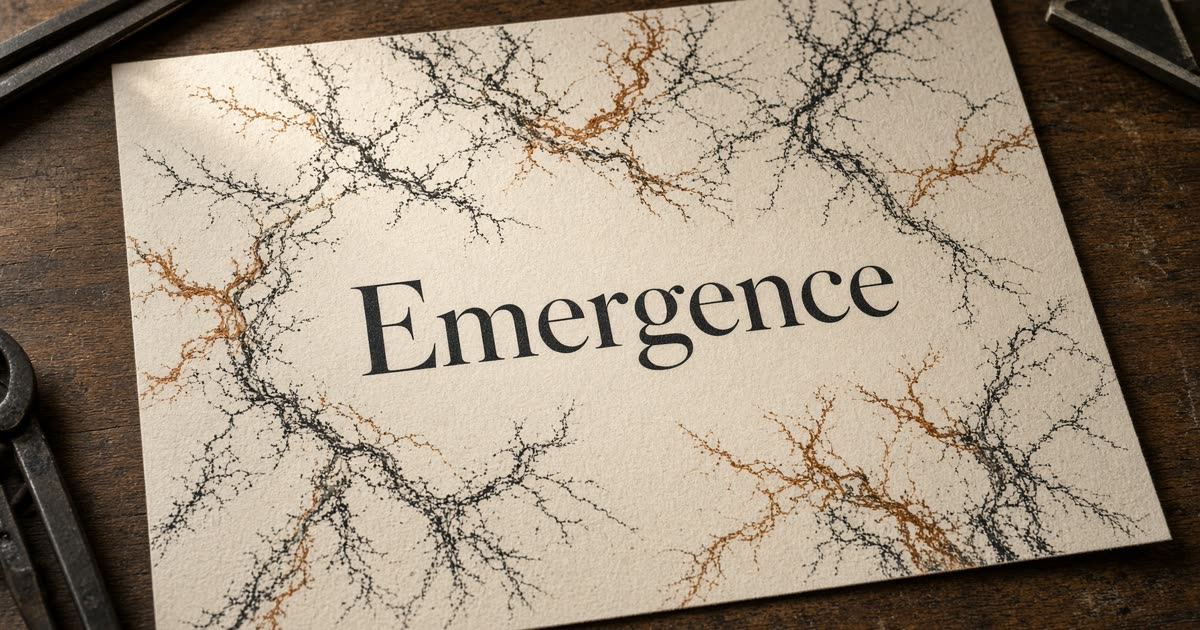
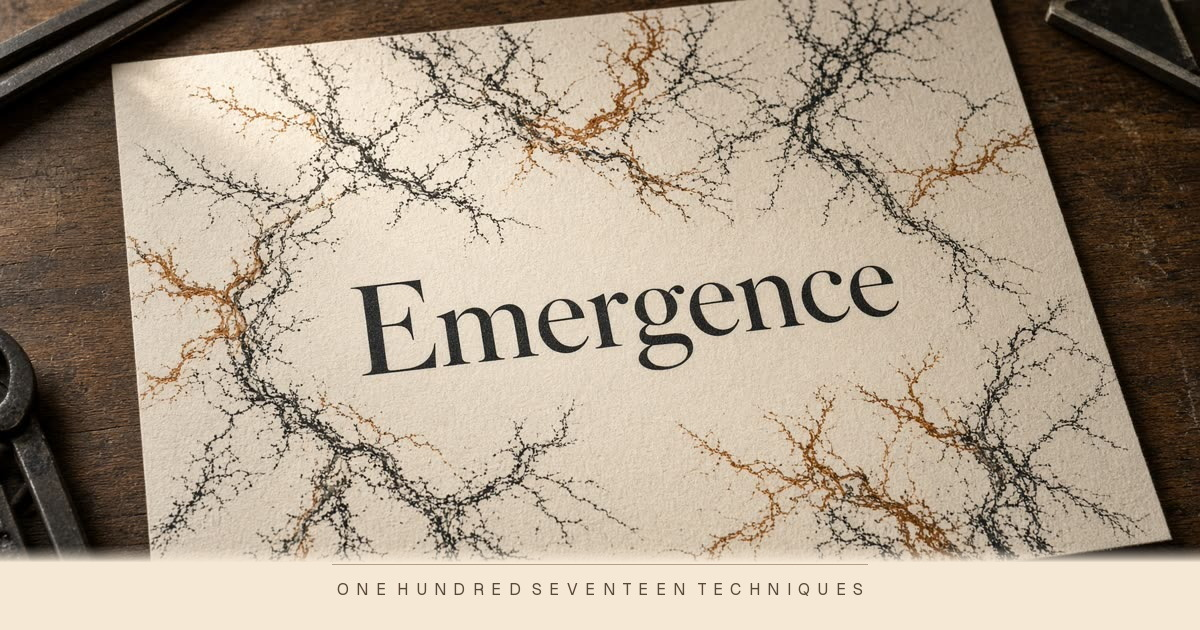
The social card says one hundred seventeen.
og.jpg still read sixty-six. The caption is the live catalog now, and lint fails when the JPEG comment does not match the file.

Changed region(s): [[0.0, 0.8444, 1.0, 1.0]]

diff --git a/tools/lint.js b/tools/lint.js
@@ -168,6 +168,7 @@ const designPlan = fs.existsSync(path.join(root, 'DESIGN-PLAN.md')) ? fs.readFil
 const llmsTxt = fs.existsSync(path.join(root, 'llms.txt')) ? fs.readFileSync(path.join(root, 'llms.txt'), 'utf8') : '';
 const agentsMd = fs.existsSync(path.join(root, 'AGENTS.md')) ? fs.readFileSync(path.join(root, 'AGENTS.md'), 'utf8') : '';
 const researchMd = fs.existsSync(path.join(root, 'RESEARCH.md')) ? fs.readFileSync(path.join(root, 'RESEARCH.md'), 'utf8') : '';
+const contributingMd = fs.existsSync(path.join(root, 'CONTRIBUTING.md')) ? fs.readFileSync(path.join(root, 'CONTRIBUTING.md'), 'utf8') : '';
 if (!researchMd) fail('RESEARCH.md is missing');
 for (const [label, text] of [
   ['studio.html', src],
@@ -178,6 +179,7 @@ for (const [label, text] of [
   ['llms.txt', llmsTxt],
   ['AGENTS.md', agentsMd],
   ['RESEARCH.md', researchMd],
+  ['CONTRIBUTING.md', contributingMd],
 ]) {
   if (!text) continue;
   // Only a spelled number that is actually counting techniques. Matching the word on its own
@@ -192,6 +194,32 @@ for (const [label, text] of [
   const digits = [...text.matchAll(/\b(\d{2,3})\s+(?:pattern-forming systems|sciences|techniques)\b/g)].map(x => +x[1]);
   for (const d of new Set(digits)) {
     if (d !== mods.length) fail(label + ' says "' + d + '" techniques but the file registers ' + mods.length);
+  }
+}
+
+/* ---- 7c. the social card caption is the catalog, not a leftover sixty-six ---- */
+// og.jpg is what GitHub and the Open Graph tags show. The number lives in a JPEG COM
+// comment so this check does not need OCR. Rewrite the card and the comment together.
+{
+  const ogPath = path.join(root, 'og.jpg');
+  if (!fs.existsSync(ogPath)) fail('og.jpg is missing');
+  else {
+    const buf = fs.readFileSync(ogPath);
+    let comment = '';
+    for (let i = 2; i < buf.length - 4 && buf[i] === 0xFF; ) {
+      const marker = buf[i + 1];
+      if (marker === 0xD8 || marker === 0xD9) { i += 2; continue; }
+      if (marker === 0xDA) break;
+      const len = (buf[i + 2] << 8) | buf[i + 3];
+      if (len < 2) break;
+      if (marker === 0xFE) comment += buf.slice(i + 4, i + 2 + len).toString('utf8');
+      i += 2 + len;
+    }
+    const want = String(mods.length);
+    if (!comment.includes(want)) {
+      fail('og.jpg JPEG comment is "' + comment.trim() + '" but the file registers ' + mods.length +
+        ' techniques; recaption the card and write the count into the COM comment');
+    }
   }
 }
 

diff --git a/AGENTS.md b/AGENTS.md
@@ -14,7 +14,7 @@ Never use `sharpie@users.noreply.github.com`. GitHub maps that address to github
 
 ## What is in here
 
-`TECHNIQUES.md` lists every technique with the URL hash that reconstructs its plate exactly and the papers it implements; `techniques.json` is the same thing for a program to read; `llms.txt` is a short file that tells a language model to read those and skip `studio.html`. All three are generated by `node tools/index.js` from `studio.html`, so they cannot disagree with the file. Run that command after adding or renaming a technique, then `node tools/lint.js`. Lint fails a catalog that is behind the file, a README or CITATION.cff whose count is wrong, a TECHNIQUES.md missing a hash, and a familiarity bucket that is missing or invented. The README narrative (the self-check table, the "what is new" bullets) is still written by hand: a new plate that measures something should get a row, not just a generated line. `RESEARCH.md` is a handwritten ledger of prior-art searches and physics claims. It is not generated. Read it before searching the web for "has this been done" or claiming a new law. Add a line the same day you search; do not re-run a search the ledger marks skip.
+`TECHNIQUES.md` lists every technique with the URL hash that reconstructs its plate exactly and the papers it implements; `techniques.json` is the same thing for a program to read; `llms.txt` is a short file that tells a language model to read those and skip `studio.html`. All three are generated by `node tools/index.js` from `studio.html`, so they cannot disagree with the file. Run that command after adding or renaming a technique, then `node tools/lint.js`. Lint fails a catalog that is behind the file, a README or CITATION.cff whose count is wrong, a TECHNIQUES.md missing a hash, a familiarity bucket that is missing or invented, and an `og.jpg` whose JPEG COM comment does not match the live count. The README narrative (the self-check table, the "what is new" bullets) is still written by hand: a new plate that measures something should get a row, not just a generated line. `RESEARCH.md` is a handwritten ledger of prior-art searches and physics claims. It is not generated. Read it before searching the web for "has this been done" or claiming a new law. Add a line the same day you search; do not re-run a search the ledger marks skip.
 
 ## Add a technique here when
 

diff --git a/DESIGN-PLAN.md b/DESIGN-PLAN.md
@@ -22,7 +22,7 @@
 
 Working file: `/home/user/GENChase/studio.html` (27,369 lines when this survey ran; 43,926 now). Harness: `/home/user/GENChase/tools/`.
 
-**This survey ran against a catalog of 63.** The studio now has 117. Figures of 63 below are the survey's, not the present catalog. Do not cite them as current. Pixel measurements, tab-strip widths and "14 of 63 tabs" are what the surveyors measured that day.
+**This survey ran against a catalog of 63.** The studio now has 117. Figures of 63 below are the survey's, not the present catalog. Do not cite them as current. Pixel measurements, tab-strip widths and "14 of 63 tabs" are what the surveyors measured that day. Archived `promptPreview` blocks still say 116 because that was the catalog the week the survey ran. Do not copy those prompts into a new survey without updating the count.
 
 Two corrections to the survey before anything else, because they change what you should trust in it.
 
@@ -470,7 +470,7 @@ Structure it as:
 
 Working file: `/home/user/GENChase/studio.html` (27,369 lines when this survey ran; 43,926 now). Harness: `/home/user/GENChase/tools/`.
 
-**This survey ran against a catalog of 63.** The studio now has 117. Figures of 63 below are the survey's, not the present catalog. Do not cite them as current. Pixel measurements, tab-strip widths and "14 of 63 tabs" are what the surveyors measured that day.
+**This survey ran against a catalog of 63.** The studio now has 117. Figures of 63 below are the survey's, not the present catalog. Do not cite them as current. Pixel measurements, tab-strip widths and "14 of 63 tabs" are what the surveyors measured that day. Archived `promptPreview` blocks still say 116 because that was the catalog the week the survey ran. Do not copy those prompts into a new survey without updating the count.
 
 Two corrections to the survey before anything else, because they change what you should trust in it.
 

diff --git a/CONTRIBUTING.md b/CONTRIBUTING.md
@@ -32,7 +32,7 @@ The eight exact plates check. The citation is one hundred seventeen.
 
 Not `fix`, not `WIP`, not a dump of files. Not Conventional Commits prefixes (`feat:`, `chore:`); the log is read as English.
 
-A commit that adds a tab also regenerates the catalog (`node tools/index.js`) in that same commit. A hand-edited `TECHNIQUES.md` is already wrong.
+A commit that adds a tab also regenerates the catalog (`node tools/index.js`) in that same commit. A hand-edited `TECHNIQUES.md` is already wrong. If the count moved, `README.md`, `CITATION.cff` and `og.jpg` move with it. The social card carries the number in a JPEG COM comment; `node tools/lint.js` fails when that comment does not match the file.
 
 Author, committer, and any `Co-authored-by` trailer use only:
 

diff --git a/.github/PULL_REQUEST_TEMPLATE.md b/.github/PULL_REQUEST_TEMPLATE.md
@@ -10,6 +10,7 @@
 - [ ] `node tools/check.js <id> 12000` (if a tab moved)
 - [ ] `node tools/export.js <id> 8 300` (if it prints)
 - [ ] `node tools/index.js` (if a tab was added or renamed)
+- [ ] if the catalog count moved: `README.md`, `CITATION.cff`, and `og.jpg` (JPEG COM comment) match the file
 - [ ] no `Math.random` in a sim; credit the paper; familiarity bucket if new
 - [ ] a new tab: a row in `RESEARCH.md`, even if the status is `science only`
 - [ ] a prior-art search or a "never been done" claim: the query and the conclusion in `RESEARCH.md`
